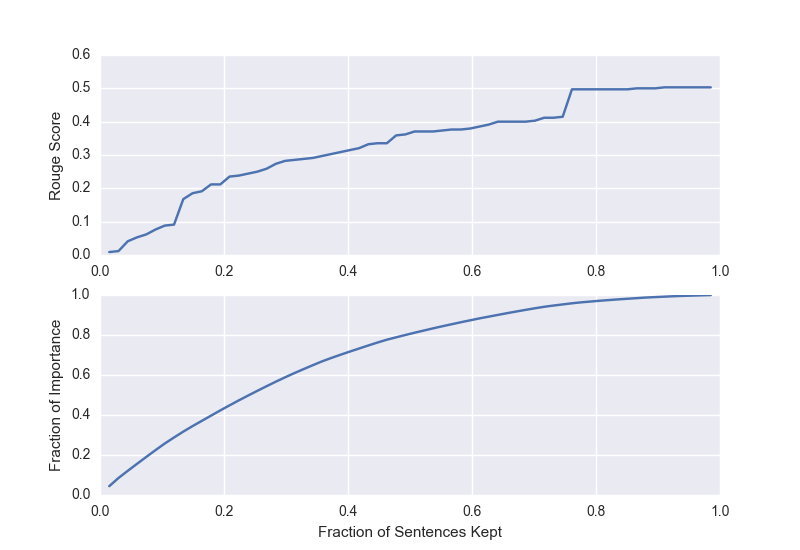
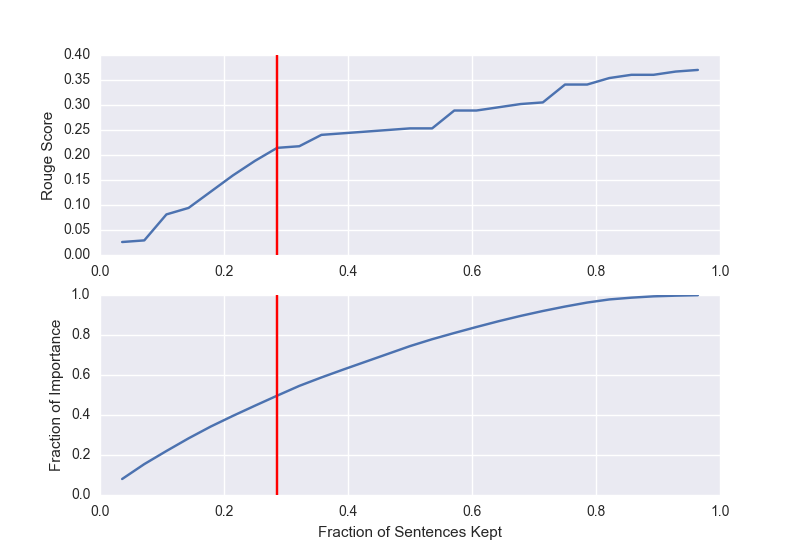
Updates viz for presentation, creates example in README

diff --git a/summarizer/test_summarizers.py b/summarizer/test_summarizers.py
@@ -66,32 +66,32 @@ if __name__ == '__main__':
     summarizer_sim = Summarizer(vocab=vocab, idf=idf, vectorizer=count, scoring='similarity')
     summarizer_rand = Summarizer(vocab=vocab, idf=idf, vectorizer=count, scoring='random')
 
-    multi_r = []
-    multi_reduction = []
-    single_r = []
-    single_reduction = []
-    sig_r = []
-    sig_reduction = []
-    sim_r = []
-    sim_reduction = []
-    rand_r = []
-    rand_reduction = []
-    for summary, article in zip(summary_list, article_list):
+    multi_r2 = []
+    multi_reduction2 = []
+    single_r2 = []
+    single_reduction2 = []
+    sig_r2 = []
+    sig_reduction2 = []
+    sim_r2 = []
+    sim_reduction2 = []
+    rand_r2 = []
+    rand_reduction2 = []
+    for summary, article in zip(summary_list[53:], article_list[53:]):
         summarizer_multi.fit(article)
         summarizer_single.fit(article)
         summarizer_sig.fit(article)
         summarizer_sim.fit(article)
         summarizer_rand.fit(article)
-        multi_r.append(summarizer_multi.rouge(summary))
-        single_r.append(summarizer_single.rouge(summary))
-        sig_r.append(summarizer_sig.rouge(summary))
-        sim_r.append(summarizer_sim.rouge(summary))
-        rand_r.append(summarizer_rand.rouge(summary))
-        multi_reduction.append(summarizer_multi.reduction)
-        single_reduction.append(summarizer_single.reduction)
-        sig_reduction.append(summarizer_sig.reduction)
-        sim_reduction.append(summarizer_sim.reduction)
-        rand_reduction.append(summarizer_rand.reduction)
+        multi_r2.append(summarizer_multi.rouge(summary))
+        single_r2.append(summarizer_single.rouge(summary))
+        sig_r2.append(summarizer_sig.rouge(summary))
+        sim_r2.append(summarizer_sim.rouge(summary))
+        rand_r2.append(summarizer_rand.rouge(summary))
+        multi_reduction2.append(summarizer_multi.reduction)
+        single_reduction2.append(summarizer_single.reduction)
+        sig_reduction2.append(summarizer_sig.reduction)
+        sim_reduction2.append(summarizer_sim.reduction)
+        rand_reduction2.append(summarizer_rand.reduction)
 
     plt.boxplot([multi_r, single_r, sig_r, sim_r, rand_r])
     plt.ylabel('Rouge Score')

diff --git a/summarizer/summarize.py b/summarizer/summarize.py
@@ -251,10 +251,10 @@ if __name__ == '__main__':
     # sentence_tfidf_vector = get_vector(tfidf, sentences)
 
     # similarities = get_sentence_cos_sims(sentence_tfidf_vector, article_tfidf_vector)
-    # significance = significance_factor(vocab, article_count_vector, sentences)
+    significance = significance_factor(vocab, article_count_vector, sentences)
     # tfidf_full = tfidf_corpus(article_count_vector, sentences, idf, vocab)
     random_scores = random_baseline(sentences)
-    tfidf_small = tfidf_single(sentences)
+    # tfidf_small = tfidf_single(sentences)
 
     # sim_summary_array = get_important_sentences(similarities, sentences, num_sentences=7)
     # sig_summary_array = get_important_sentences(significance, sentences, num_sentences=7)
@@ -297,17 +297,20 @@ if __name__ == '__main__':
     #     rouges.append(rouge_score(tfidf_small_summary, test_summary))
     #     importance_fraction.append(np.sum(tfidf_small_norm[:x]))
 
+    threshold = sentence_fraction[max(np.where(np.array(importance_fraction) <= 0.5)[0])]
 
     plt.subplot(211)
     plt.plot(sentence_fraction, rouges)
     plt.ylabel("Rouge Score")
+    plt.axvline(x=threshold, color='r')
     # plt.axhline(y=rouge_score(rand_summary, test_summary), linewidth=2, color='r')
 
     plt.subplot(212)
     plt.plot(sentence_fraction, importance_fraction)
     plt.ylabel("Fraction of Importance")
     plt.xlabel("Fraction of Sentences Kept")
+    plt.axvline(x=threshold, color='r')
     # plt.axhline(y=0.5, linewidth=2, color='r')
 
-    plt.show()
-    # plt.savefig('../images/length_test_plot.png')
+    # plt.show()
+    plt.savefig('../images/length_test_plot.png')

diff --git a/summarizer/summarizer.py b/summarizer/summarizer.py
@@ -260,8 +260,9 @@ if __name__ == '__main__':
 
     count = CountVectorizer(stop_words='english', vocabulary=vocab)
 
-    url = 'http://www.nbcnews.com/politics/first-read/first-read-clinton-has-owned-airwaves-general-election-n631706'
-    summary_url = 'http://www.newser.com/story/229742/jill-stein-has-outspent-trump-on-election-ads.html'
+    url = 'http://www.nytimes.com/2016/08/17/us/shadow-brokers-leak-raises-alarming-question-was-the-nsa-hacked.html?_r=0'
+    # url = 'https://www.washingtonpost.com/news/morning-mix/wp/2016/08/16/son-of-chicago-cop-home-from-college-to-surprise-his-sick-mom-killed-in-mistaken-identity-shooting/'
+    summary_url = 'http://www.newser.com/story/229746/chicago-cops-teen-son-shot-dead.html'
 
     full_text = get_full_article(url)
     manual_summary = get_summary_and_full_links(summary_url)[0]
@@ -273,6 +274,6 @@ if __name__ == '__main__':
     random_summary = my_sum.make_summary(random_summary_array)
 
     print my_sum.summary
-    print "Reduction: ", my_sum.reduction, "of original sentences kept" 
+    print "Reduction: ", my_sum.reduction, "of original sentences kept"
     print "Rouge: ", my_sum.rouge(manual_summary)
     print "Random Rouge: ", rouge_score(random_summary, manual_summary)

diff --git a/README.md b/README.md
@@ -3,8 +3,10 @@
 ## Example
 #### First Read: Clinton Has Owned the Airwaves in the General Election
 Exactly two months ago, Hillary Clinton's campaign went up with its first general election TV ads in battleground states, and in that time it has spent $61 million over the airwaves, while pro-Clinton outside groups have chipped in an additional $43 million. What is Trump doing with his campaign money (after the New York Times reported two weeks ago that Trump and the GOP had raised a combined $82 million last month)? Oh, and get this: The Green Party's Jill Stein ($189,000) and Libertarian nominee Gary Johnson ($15,000) have spent more on ads than the Trump campaign ($0) in this general election.
+
 Trump outside groups: $12.4 million
 Total Team Trump: $12.4 million
+
 Clinton 50%, Trump 41%: Meanwhile, the latest weekly national NBC.SurveyMonkey online tracking poll shows Hillary Clinton leading Donald Trump by nine points, 50%-41% -- virtually unchanged from last week's 51%-41% advantage for Clinton. Just 17 percent of all voters say that Trump has the personality and temperament to serve effectively as president. Even among Republican and Republican-leaners, only 19 percent said Trump has the personality to serve effectively. "[T]he national security framework he described was so contradictory and filled with so many obvious falsehoods that it's virtually impossible to tell what he would do as president… That's because Trump previously supported every single foreign policy decision he now decries. Despite claiming daily that he opposed the Iraq War from the start, Trump endorsed deposing Saddam Hussein in a 2002 interview and there's no record of him opposing the war until after it had began. Hillary Clinton holds a voter-registration even in Philadelphia at 1:15 pm ET… Tim Kaine hits North Carolina… Donald Trump holds a rally in West Bend, WI at 8:30 pm ET… And Mike Pence is in New Mexico.
 
 **Size Reduction:** 0.2195 of sentences kept
